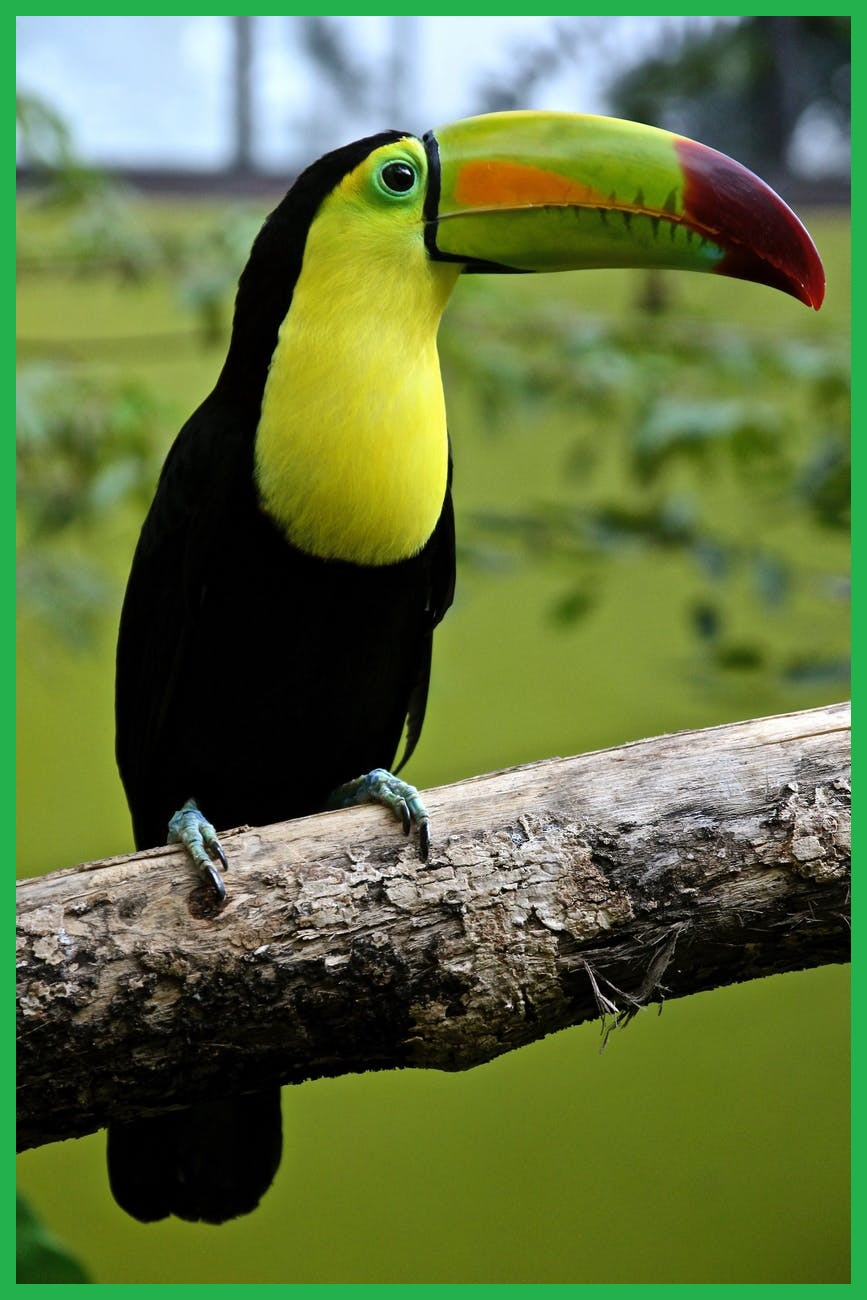
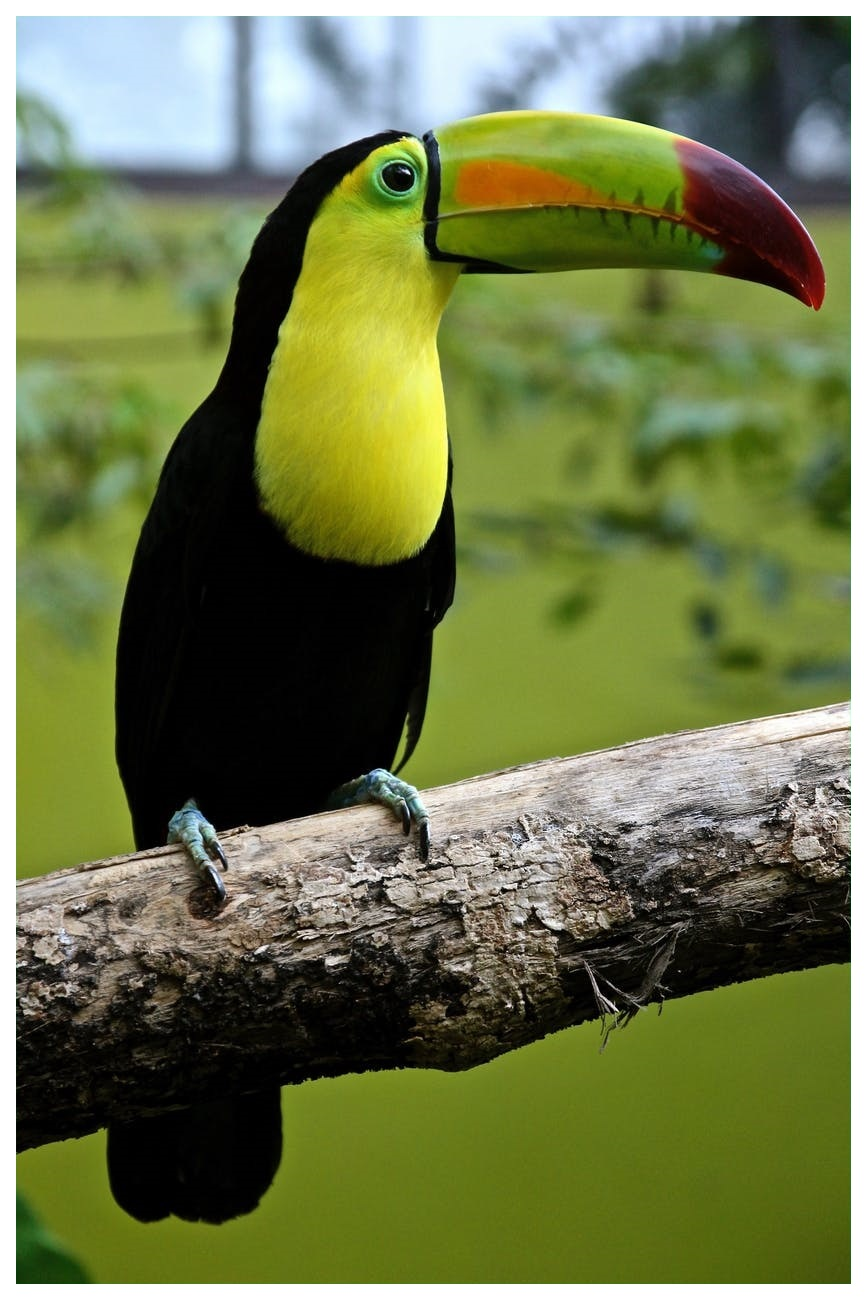
Fixed image border

Changed region(s): [[0.0, 0.0, 1.0, 1.0]]

diff --git a/index.html b/index.html
@@ -123,6 +123,7 @@
 				</li>
 				</ul>
 		</div>
+
 		</footer>
 		<div class="modal fade" id="helpModal" tabindex="-1" role="dialog" aria-labelledby="exampleModalLabel"
 			aria-hidden="true">
@@ -156,7 +157,7 @@
 			<div class="modal-dialog" role="document">
 				<div class="modal-content">
 					<div class="modal-header">
-						<h5 class="modal-title" id="exampleModalLabel">I'm looking for new projects!</h5>
+						<h2 class="modal-title" id="exampleModalLabel">I'm looking for new projects!</h2>
 						<button type="button" class="close" data-dismiss="modal" aria-label="Close">
           <span aria-hidden="true">&times;</span>
         </button>
@@ -166,19 +167,20 @@
 							<input type="text" name="name" class="form-control" id="fullname" placeholder="Name" required/>
 							<input type="text" name="emailaddress" class="form-control" id="emailaddress" placeholder="Email" required/>
 							<textarea rows="5" name="projectsummary" class="form-control" id="projectsummary" placeholder="Project Description" required></textarea>
-							<button type="submit" class="btn btn-secondary center-block">Send Project Request</button>
+							<button type="submit" class="btn btn-primary">Send Project Request</button>
 						</form>
 					</div>
 
 				</div>
 			</div>
 		</div>
-        <script src="assets/js/email.js"></script>
+        
 		<script src="https://code.jquery.com/jquery-3.4.1.js"
 			integrity="sha256-WpOohJOqMqqyKL9FccASB9O0KwACQJpFTUBLTYOVvVU=" crossorigin="anonymous"></script>
 		<script src="https://stackpath.bootstrapcdn.com/bootstrap/4.4.1/js/bootstrap.min.js"
 			integrity="sha384-wfSDF2E50Y2D1uUdj0O3uMBJnjuUD4Ih7YwaYd1iqfktj0Uod8GCExl3Og8ifwB6" crossorigin="anonymous">
-		</script>		
+		</script>
+        <script src="assets/js/email.js"></script>		
         <script src="assets/js/script.js"></script>
 </body>
 

diff --git a/assets/css/style.css b/assets/css/style.css
@@ -6,7 +6,7 @@
 }
 
 body {
-    background-image: url("assets/images/background.png");
+    background-color: blanchedalmond;
     height: 97.5vh;
     font-family: 'Ubuntu', sans-serif;
 }
@@ -53,9 +53,9 @@ body {
     perspective: 2000px;
 }
 .card {
-    width: 24.5%;
-    height: 24.5%;
-    margin: 0.25% 0.25%;
+    width: 24%;
+    height: 24%;
+    margin: 0.5% 0.5%;
     display: inline-block;
     position: relative;
     transform:scale(1);
@@ -104,7 +104,9 @@ i {
 i:hover{
     background: #dc3545;
 }
-
+.form-control{
+    margin: 10px 0;
+}
 
 /* Modals */
 .modal-body {

diff --git a/assets/js/script.js b/assets/js/script.js
@@ -1,22 +1,3 @@
-/* --- EmailJS --- */
-function sendMail(contactForm) {
-    emailjs.send("gmail", "contact", {
-        "from_name": contactForm.fullname.value,
-        "from_email": contactForm.emailaddress.value,
-        "project_request": contactForm.projectsummary.value
-    })
-    .then(
-        function(response) {
-            console.log("SUCCESS", response);
-        },
-        function(error) {
-            console.log("FAILED", error);
-        }
-    );    
-}
-
-
-
 // Card variables
 var turnedCard = false;
 var firstCard, secondCard;

diff --git a/assets/js/email.js b/assets/js/email.js
@@ -1,6 +1,6 @@
 function sendMail(contactForm) {
     emailjs.send("gmail", "contact", {
-        "from_name": contactForm.fullname.value,
+        "from_name": contactForm.name.value,
         "from_email": contactForm.emailaddress.value,
         "project_request": contactForm.projectsummary.value
     })
